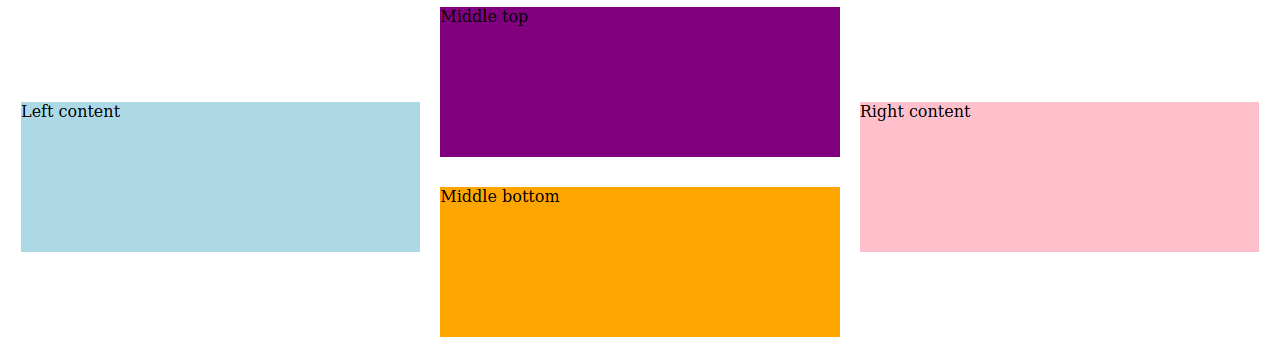
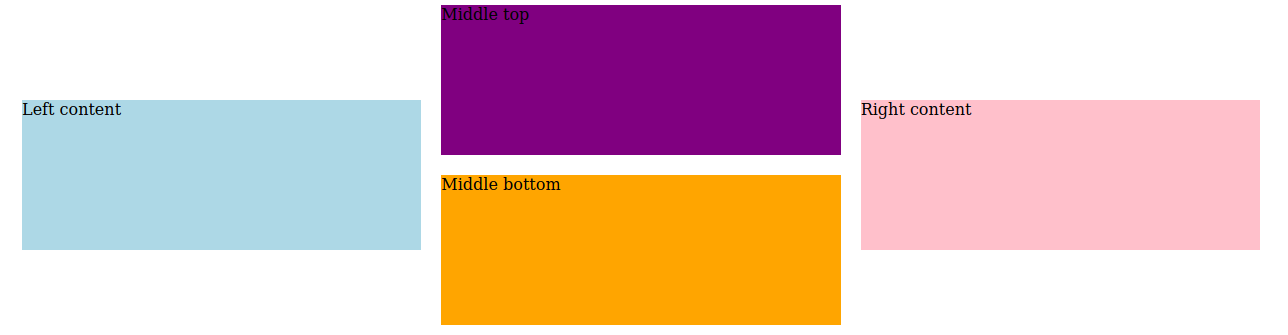
Fixed spacing for middle content

diff --git a/main.css b/main.css
@@ -26,6 +26,10 @@
 
 		grid-gap: 20px;
 	}
+
+	.middle-content {
+		grid-gap: 0px !important;
+	}
 }
 
 .left-content {
